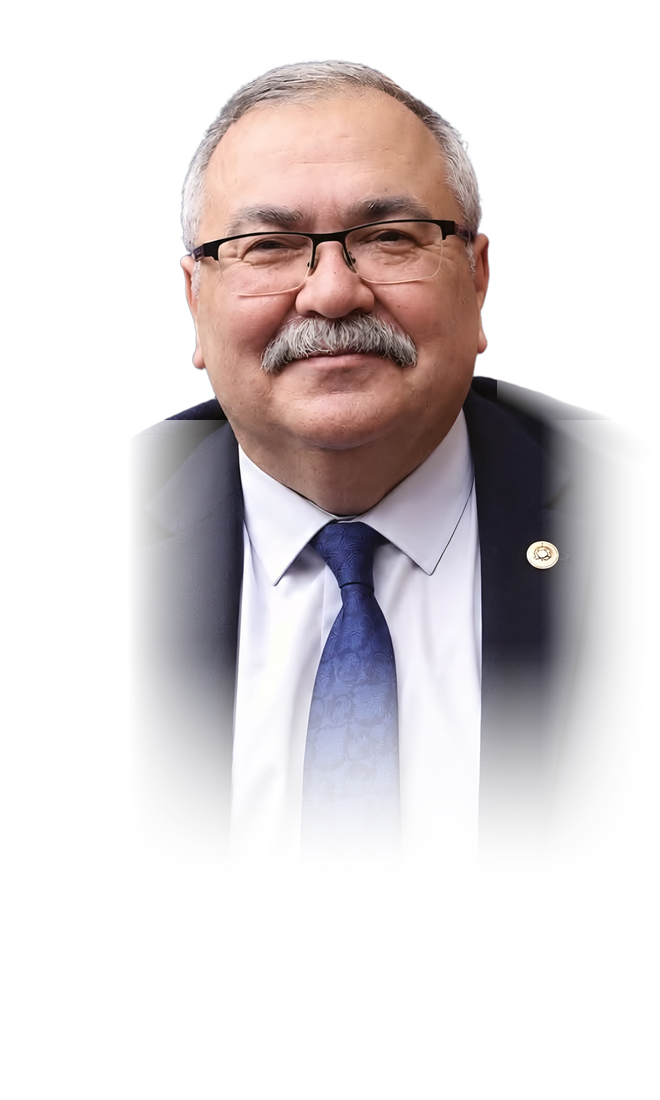
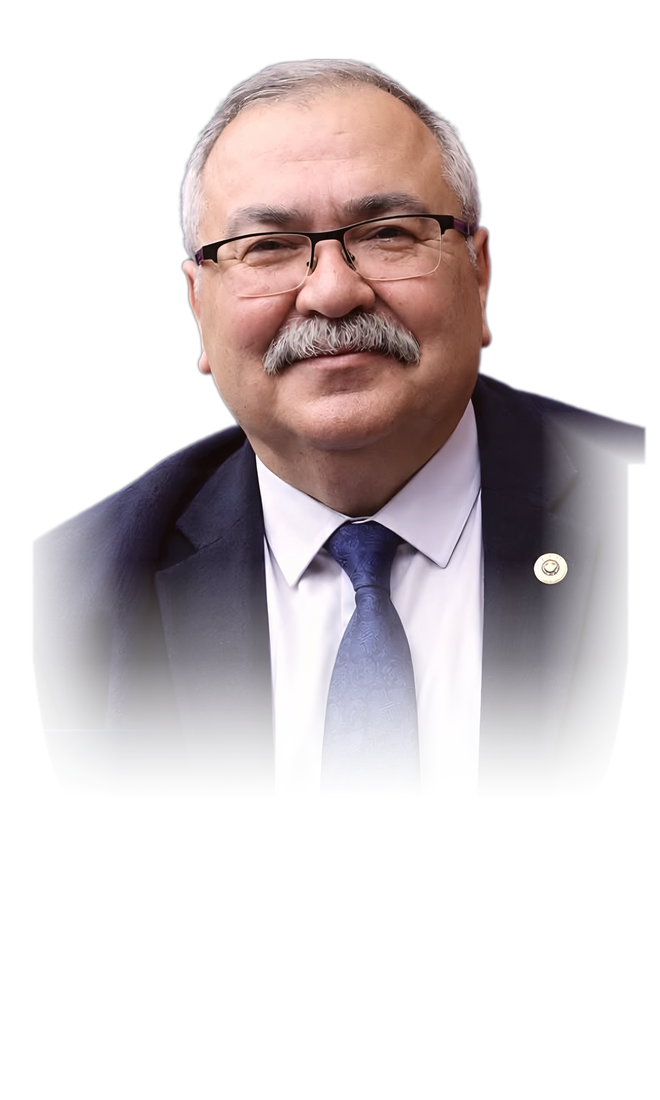
Vekil ziyareti: Bülbül yeni fotoğraf, tüm kafalar aynı hizada
Claude-Session: https://claude.ai/code/session_01SatttGbgBLoCnk9KGLypWv

Changed region(s): [[0.0303, 0.0309, 1.0, 0.7418], [0.6364, 0.4018, 0.6667, 0.4327]]

diff --git a/tasarim/kisisel/vekil-ziyaret/grup.html b/tasarim/kisisel/vekil-ziyaret/grup.html
@@ -28,7 +28,7 @@ background:radial-gradient(700px 520px at 50% 40%,#F2363E 0,#C8141E 38%,#6E0A10 
 <div class="arka">DİDİM</div>
 <div class="ust"><h1>Aydın, Didim’de buluşuyor</h1></div>
 
-<img class="p" src="demir-s.png" style="left:22px;top:320px;width:330px;z-index:1"><img class="p" src="tezcan-s.png" style="left:257px;top:304px;width:330px;z-index:2"><img class="p" src="bulbul-s.png" style="left:493px;top:342px;width:330px;z-index:2"><img class="p" src="karakoz-s.png" style="left:728px;top:320px;width:330px;z-index:1"><div class="alt"></div>
+<img class="p" src="demir-s.png" style="left:22px;top:316px;width:330px;z-index:1"><img class="p" src="tezcan-s.png" style="left:257px;top:316px;width:330px;z-index:2"><img class="p" src="bulbul-s.png" style="left:493px;top:316px;width:330px;z-index:2"><img class="p" src="karakoz-s.png" style="left:728px;top:316px;width:330px;z-index:1"><div class="alt"></div>
 <div class="isimler"><div style="left:187px"><b>Dilaver Demir</b><span>Aydın İl Başkanı</span></div><div style="left:422px"><b>Bülent Tezcan</b><span>Aydın Milletvekili</span></div><div style="left:658px"><b>Süleyman Bülbül</b><span>Aydın Milletvekili</span></div><div style="left:893px"><b>Evrim Karakoz</b><span>Aydın Milletvekili</span></div></div>
 <div class="bilgi"><b>20 Kasım Cuma</b><i></i><b>16.00</b></div>
 <div class="yer">Yeni Parti Didim İlçe Başkanlığı<small>Tüm halkımız davetlidir.</small></div>
